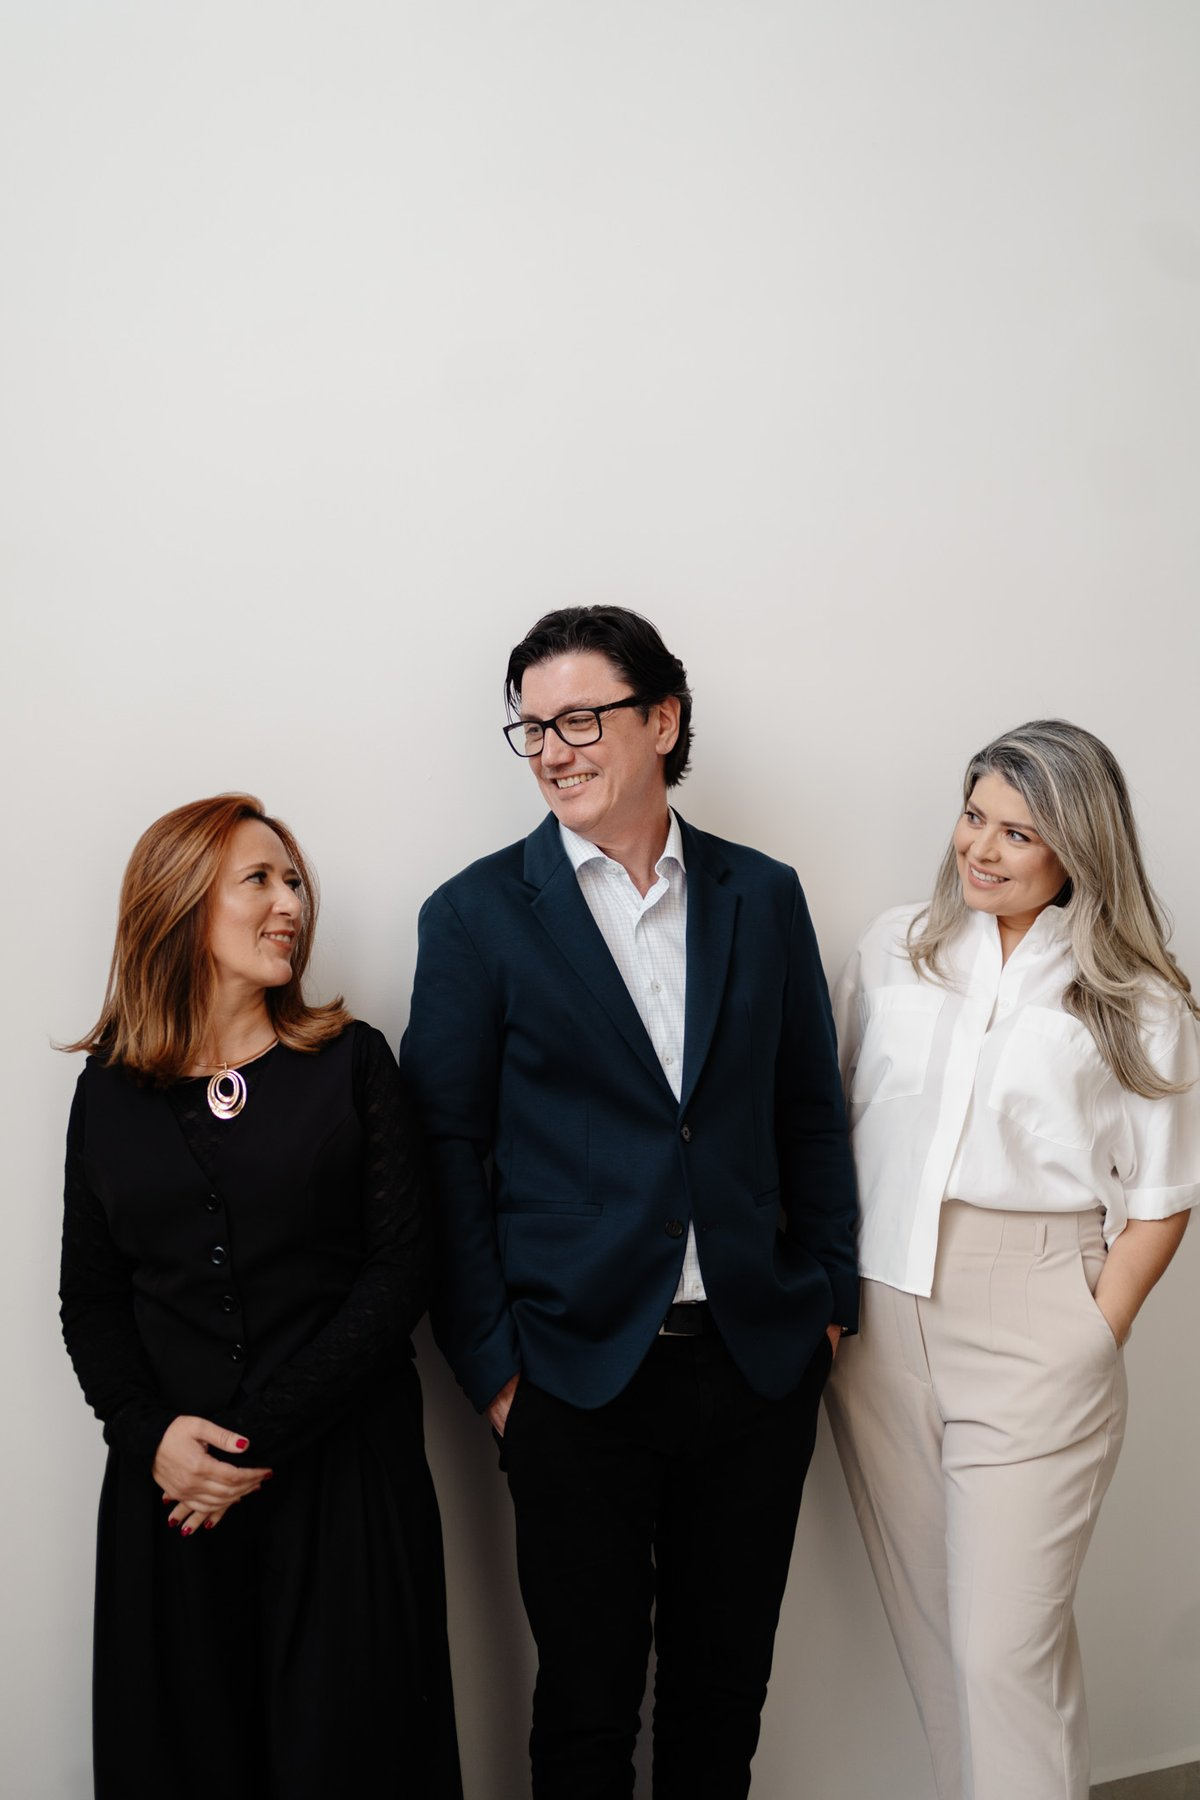
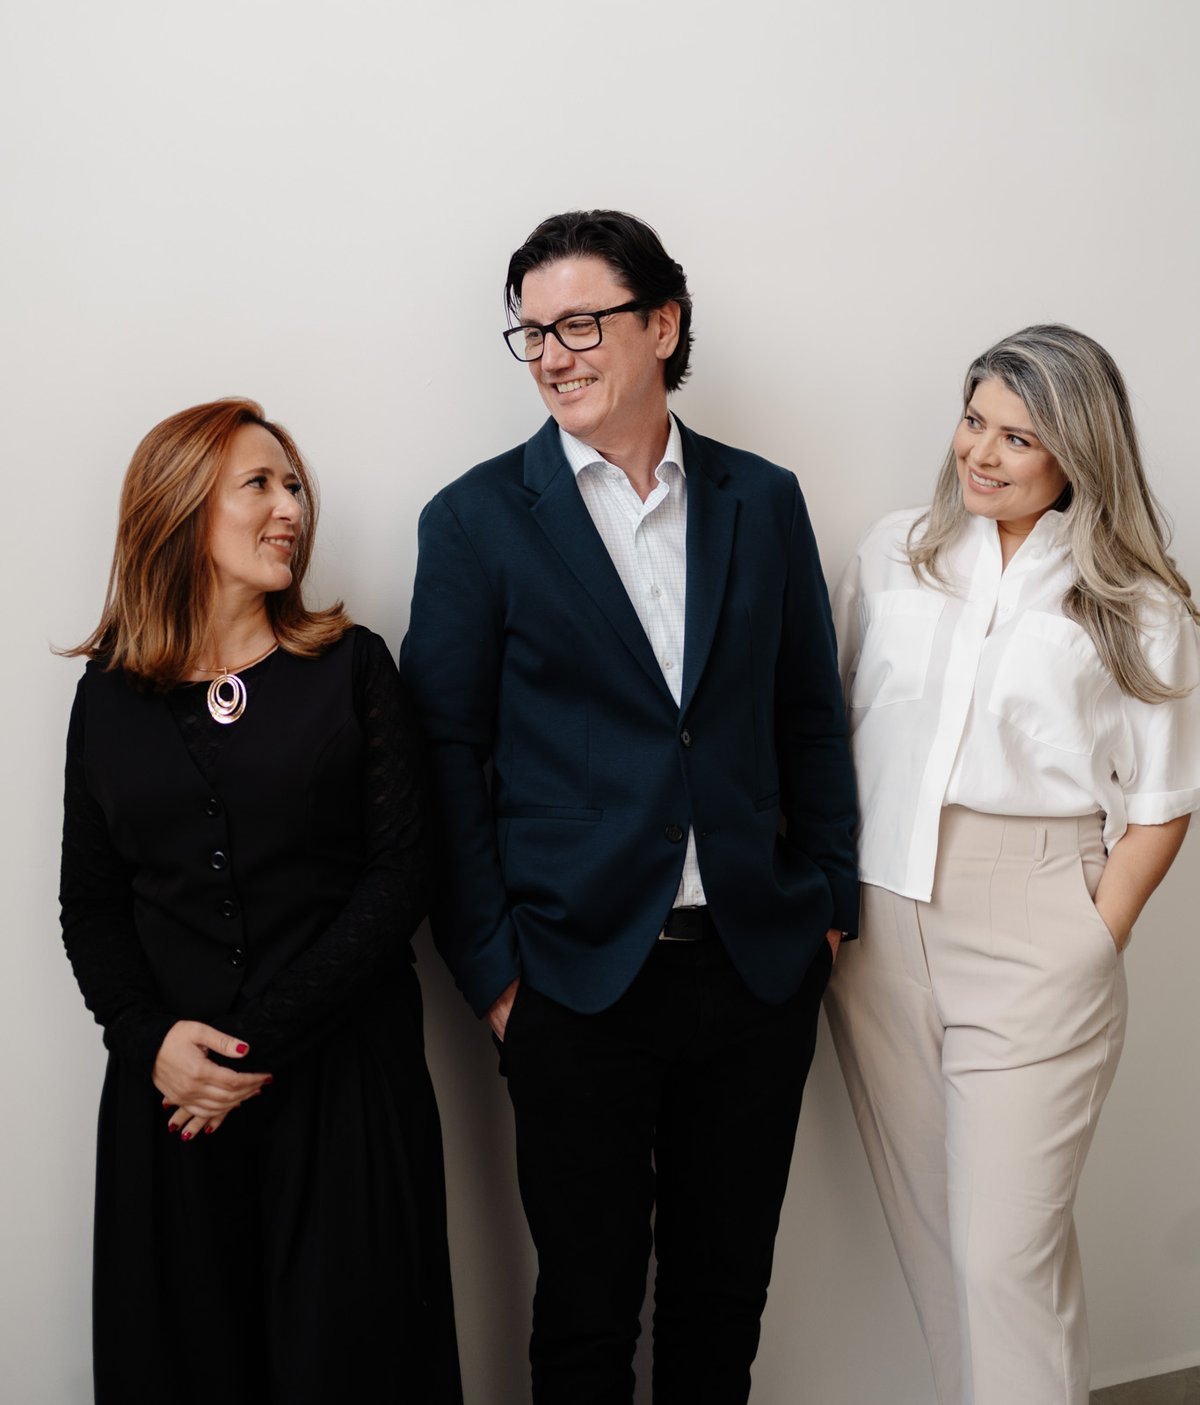
Capa + Página 2: foto contínua, rostos no topo, sem botão na capa, data 16/07; Página 2 com 2 cards (Local + Lista VIP)
- Hero: foto contínua (sem fundo duplicado), rostos subidos (recorte + center 38%),
  remove botão da capa, suaviza o véu da base, data de inauguração 16/07/2026
- Página 2: fundo é a continuidade da foto; layout em 2 cards
  (esquerda: Pátio Villa Branca/onde estaremos; direita: Lista VIP menor)
- Novas imagens: equipe.jpg (recortada) e local.jpg (Pátio Villa Branca)
- CSS -> app-33.css

diff --git a/index.html b/index.html
@@ -24,7 +24,7 @@
   <!-- Icons (lucide) -->
   <script src="https://unpkg.com/lucide@latest/dist/umd/lucide.min.js" defer></script>
 
-  <link rel="stylesheet" href="css/app-32.css" />
+  <link rel="stylesheet" href="css/app-33.css" />
   <link rel="icon" type="image/png" href="assets/logo.png?v=3" />
 </head>
 <body>
@@ -84,7 +84,7 @@
       </p>
 
       <!-- Countdown (data real definida em data-launch; fallback automático "Em breve") -->
-      <div id="countdown" class="countdown" data-launch="2026-07-15T09:00:00-03:00" aria-label="Contagem regressiva para a inauguração">
+      <div id="countdown" class="countdown" data-launch="2026-07-16T09:00:00-03:00" aria-label="Contagem regressiva para a inauguração">
         <div class="countdown-item">
           <span class="countdown-number" id="cd-days">00</span>
           <span class="countdown-label">Dias</span>
@@ -106,17 +106,7 @@
         </div>
       </div>
 
-      <a
-        href="https://wa.me/5512999999999?text=Ol%C3%A1!%20Quero%20entrar%20na%20Lista%20VIP%20da%20Nutrire%20360%20para%20ter%20acesso%20antecipado%20%C3%A0%20inaugura%C3%A7%C3%A3o."
-        target="_blank"
-        rel="noopener"
-        class="btn btn-primary btn-xl btn-logo-grad"
-      >
-        <i data-lucide="message-circle" class="btn-icon"></i>
-        ENTRAR NA LISTA VIP
-      </a>
-
-      <p class="ph-cta-note">Acesso antecipado · Condições exclusivas de inauguração</p>
+      <p class="ph-cta-note">Acesso antecipado · Condições exclusivas de inauguração · Role para conhecer</p>
     </div>
 
     <a href="#lista-vip" class="scroll-indicator" aria-label="Role para saber mais">
@@ -130,60 +120,71 @@
        ============================================ -->
   <section class="vip" id="lista-vip">
     <div class="container">
-      <div class="vip-card">
-        <span class="vip-eyebrow">
-          <i data-lucide="star"></i> Lista VIP de Inauguração
-        </span>
-        <h2 class="vip-title">
-          Seja um dos primeiros
-          <span class="gold-em">a viver a experiência Nutrire 360.</span>
-        </h2>
+      <div class="vip-grid">
 
-        <ul class="vip-benefits">
-          <li class="vip-benefit">
-            <i data-lucide="check"></i>
-            <div>
-              <strong>Acesso antecipado</strong>
-              <span>Agendamento prioritário antes da abertura ao público.</span>
-            </div>
-          </li>
-          <li class="vip-benefit">
-            <i data-lucide="check"></i>
-            <div>
-              <strong>Condições exclusivas</strong>
-              <span>Vantagens de inauguração disponíveis só para a lista.</span>
-            </div>
-          </li>
-          <li class="vip-benefit">
-            <i data-lucide="check"></i>
-            <div>
-              <strong>Bastidores da clínica</strong>
-              <span>Updates exclusivos sobre o espaço e a equipe.</span>
-            </div>
-          </li>
-          <li class="vip-benefit">
-            <i data-lucide="check"></i>
-            <div>
-              <strong>Convite para o evento de abertura</strong>
-              <span>Uma vivência exclusiva com os três profissionais.</span>
-            </div>
-          </li>
-        </ul>
+        <!-- ESQUERDA: Onde estaremos (Pátio Villa Branca) -->
+        <article class="vip-card vip-card-sm">
+          <span class="vip-eyebrow"><i data-lucide="map-pin"></i> Onde Estaremos</span>
+          <h2 class="vip-title-2">
+            Nosso espaço, no
+            <span class="gold-em">coração de Jacareí.</span>
+          </h2>
+          <div class="local-photo">
+            <img src="assets/local.jpg?v=1" alt="Pátio Villa Branca — Jacareí" loading="lazy" />
+          </div>
+          <p class="local-name">Pátio Villa Branca</p>
+          <p class="local-addr">
+            <i data-lucide="map-pin"></i>
+            <span>Av. das Letras, 659 · Vila Branca<br />Jacareí, SP · 12301-330</span>
+          </p>
+          <a
+            href="https://maps.google.com/?q=P%C3%A1tio+Villa+Branca+Jacare%C3%AD"
+            target="_blank"
+            rel="noopener"
+            class="btn btn-outline-dark btn-pill"
+          >
+            <i data-lucide="map-pin" class="btn-icon"></i>
+            COMO CHEGAR
+          </a>
+        </article>
 
-        <a
-          href="https://wa.me/5512999999999?text=Ol%C3%A1!%20Quero%20entrar%20na%20Lista%20VIP%20da%20Nutrire%20360%20para%20ter%20acesso%20antecipado%20%C3%A0%20inaugura%C3%A7%C3%A3o."
-          target="_blank"
-          rel="noopener"
-          class="btn btn-primary btn-xl btn-logo-grad"
-        >
-          <i data-lucide="message-circle" class="btn-icon"></i>
-          QUERO ENTRAR NA LISTA VIP
-        </a>
+        <!-- DIREITA: Lista VIP -->
+        <article class="vip-card vip-card-sm">
+          <span class="vip-eyebrow"><i data-lucide="star"></i> Lista VIP de Inauguração</span>
+          <h2 class="vip-title-2">
+            Seja um dos primeiros
+            <span class="gold-em">a viver a experiência Nutrire 360.</span>
+          </h2>
+          <ul class="vip-benefits">
+            <li class="vip-benefit">
+              <i data-lucide="check"></i>
+              <div><strong>Acesso antecipado</strong><span>Agendamento prioritário antes da abertura.</span></div>
+            </li>
+            <li class="vip-benefit">
+              <i data-lucide="check"></i>
+              <div><strong>Condições exclusivas</strong><span>Vantagens de inauguração só para a lista.</span></div>
+            </li>
+            <li class="vip-benefit">
+              <i data-lucide="check"></i>
+              <div><strong>Bastidores da clínica</strong><span>Updates sobre o espaço e a equipe.</span></div>
+            </li>
+            <li class="vip-benefit">
+              <i data-lucide="check"></i>
+              <div><strong>Convite para a abertura</strong><span>Vivência exclusiva com os três profissionais.</span></div>
+            </li>
+          </ul>
+          <a
+            href="https://wa.me/5512999999999?text=Ol%C3%A1!%20Quero%20entrar%20na%20Lista%20VIP%20da%20Nutrire%20360%20para%20ter%20acesso%20antecipado%20%C3%A0%20inaugura%C3%A7%C3%A3o."
+            target="_blank"
+            rel="noopener"
+            class="btn btn-primary btn-xl btn-logo-grad"
+          >
+            <i data-lucide="message-circle" class="btn-icon"></i>
+            QUERO ENTRAR NA LISTA VIP
+          </a>
+          <p class="vip-note">Sem custo · Sem compromisso.</p>
+        </article>
 
-        <p class="vip-note">
-          Sem custo · Sem compromisso · Para quem realmente quer cuidar da saúde
-          de forma integrada.
-        </p>
       </div>
     </div>
   </section>

diff --git a/css/app-33.css b/css/app-33.css
@@ -1309,9 +1309,9 @@ button {
 /* ---------- Fundo único (foto) cobrindo capa + Lista VIP ---------- */
 .cover-wrap {
   position: relative;
-  background-image: url("../assets/equipe.jpg?v=3");
+  background-image: url("../assets/equipe.jpg?v=4");
   background-size: cover;
-  background-position: center 22%;
+  background-position: center 38%;
   background-repeat: no-repeat;
 }
 
@@ -1331,7 +1331,6 @@ button {
   position: absolute;
   inset: 0;
   z-index: 0;
-  background: url("../assets/equipe.jpg?v=3") center 42% / cover no-repeat;
 }
 .ph-hero-bg img {
   width: 100%;
@@ -1345,11 +1344,11 @@ button {
   /* topo limpo (rostos livres) e véu claro só na base, atrás do conteúdo */
   background: linear-gradient(
     180deg,
-    rgba(252, 250, 244, 0.08) 0%,
-    rgba(252, 250, 244, 0.02) 24%,
-    rgba(252, 250, 244, 0.3) 42%,
-    rgba(252, 250, 244, 0.72) 60%,
-    rgba(252, 250, 244, 0.95) 100%
+    rgba(252, 250, 244, 0.04) 0%,
+    rgba(252, 250, 244, 0.02) 34%,
+    rgba(252, 250, 244, 0.16) 60%,
+    rgba(252, 250, 244, 0.4) 82%,
+    rgba(252, 250, 244, 0.55) 100%
   );
 }
 .ph-hero-arc {
@@ -2048,4 +2047,77 @@ button {
   .countdown-label { font-size: 9px; margin-top: 4px; }
   .ph-cta-note { margin-top: 7px; }
   .scroll-indicator { bottom: 8px; }
+}
+
+/* ============================================
+   PÁGINA 2 — dois cards (Local + Lista VIP)
+   ============================================ */
+.vip-grid {
+  display: grid;
+  grid-template-columns: 1fr 1fr;
+  gap: 26px;
+  align-items: stretch;
+}
+.vip-grid .vip-card {
+  max-width: none;
+  margin: 0;
+  padding: 34px 30px;
+  text-align: center;
+  display: flex;
+  flex-direction: column;
+}
+.vip-title-2 {
+  font-family: var(--font-display);
+  font-size: clamp(20px, 1.9vw, 26px);
+  font-weight: 300;
+  letter-spacing: -0.4px;
+  line-height: 1.2;
+  color: var(--dark);
+  margin-bottom: 20px;
+}
+.vip-grid .vip-benefits {
+  grid-template-columns: 1fr;
+  gap: 14px;
+  margin-bottom: 22px;
+  flex: 1;
+}
+.vip-grid .vip-card .btn-xl {
+  padding: 15px 22px;
+  font-size: 12px;
+  letter-spacing: 1px;
+}
+
+/* Card do local (Pátio Villa Branca) */
+.local-photo {
+  border-radius: 12px;
+  overflow: hidden;
+  margin-bottom: 18px;
+  aspect-ratio: 16 / 9;
+  border: 1px solid var(--border-soft);
+}
+.local-photo img { width: 100%; height: 100%; object-fit: cover; }
+.local-name {
+  font-family: var(--font-display);
+  font-size: 22px;
+  font-weight: 500;
+  color: var(--dark);
+  margin-bottom: 10px;
+}
+.local-addr {
+  display: flex;
+  gap: 9px;
+  justify-content: center;
+  align-items: flex-start;
+  font-size: 13.5px;
+  font-weight: 300;
+  line-height: 1.55;
+  color: var(--text-body);
+  margin-bottom: 22px;
+  flex: 1;
+}
+.local-addr svg { width: 16px; height: 16px; color: var(--primary); flex-shrink: 0; margin-top: 2px; }
+.local-card .btn-pill { align-self: center; margin-top: auto; }
+
+@media (max-width: 900px) {
+  .vip-grid { grid-template-columns: 1fr; gap: 22px; }
 }
